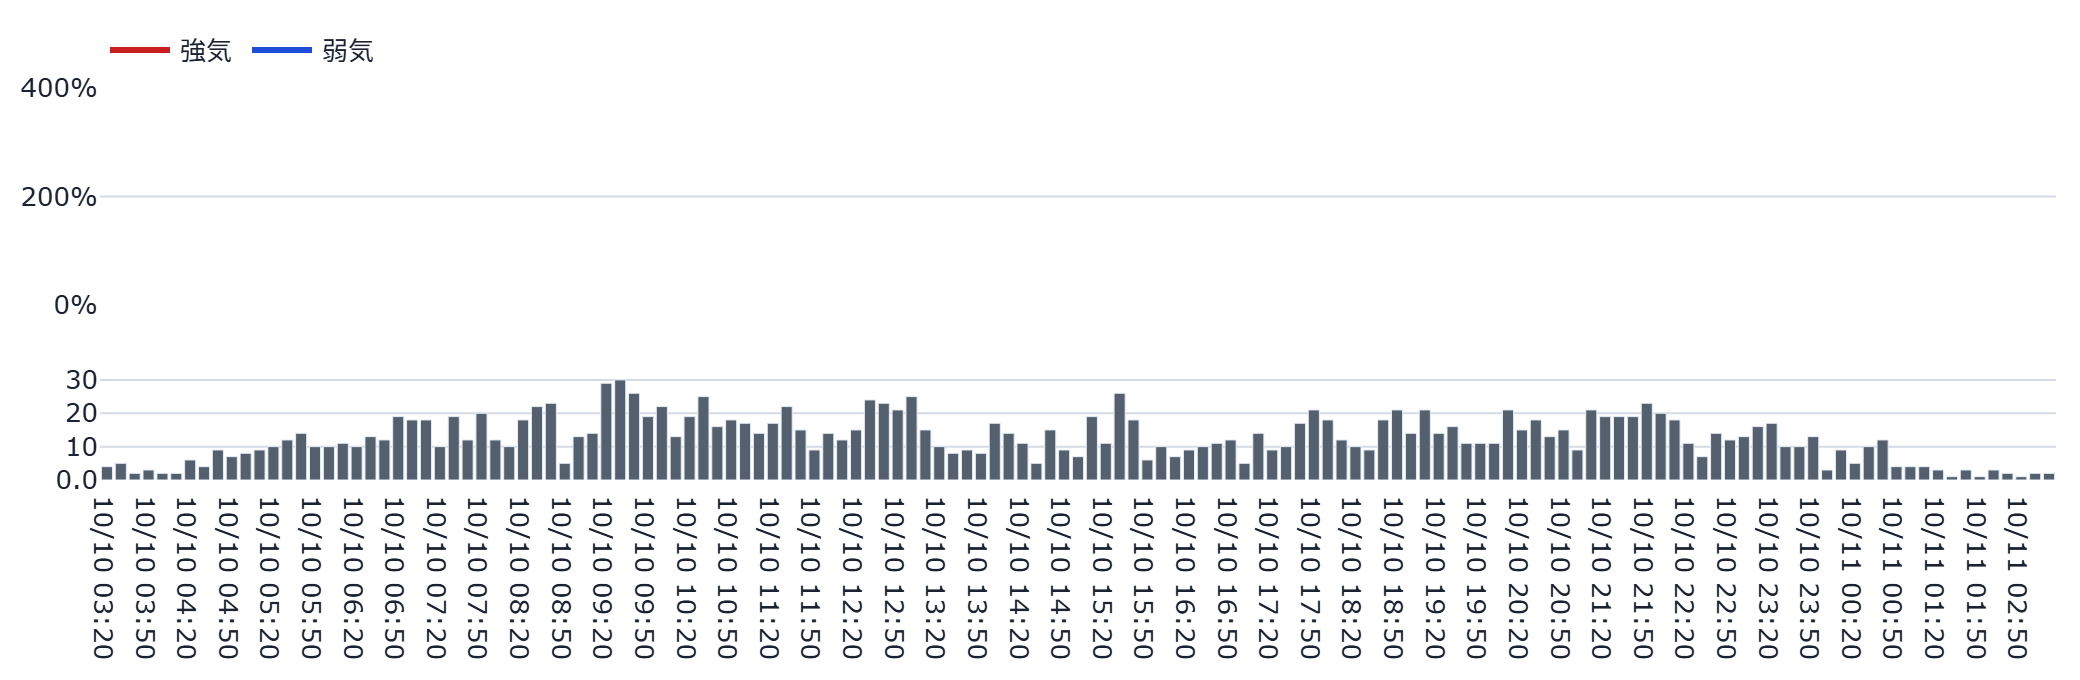
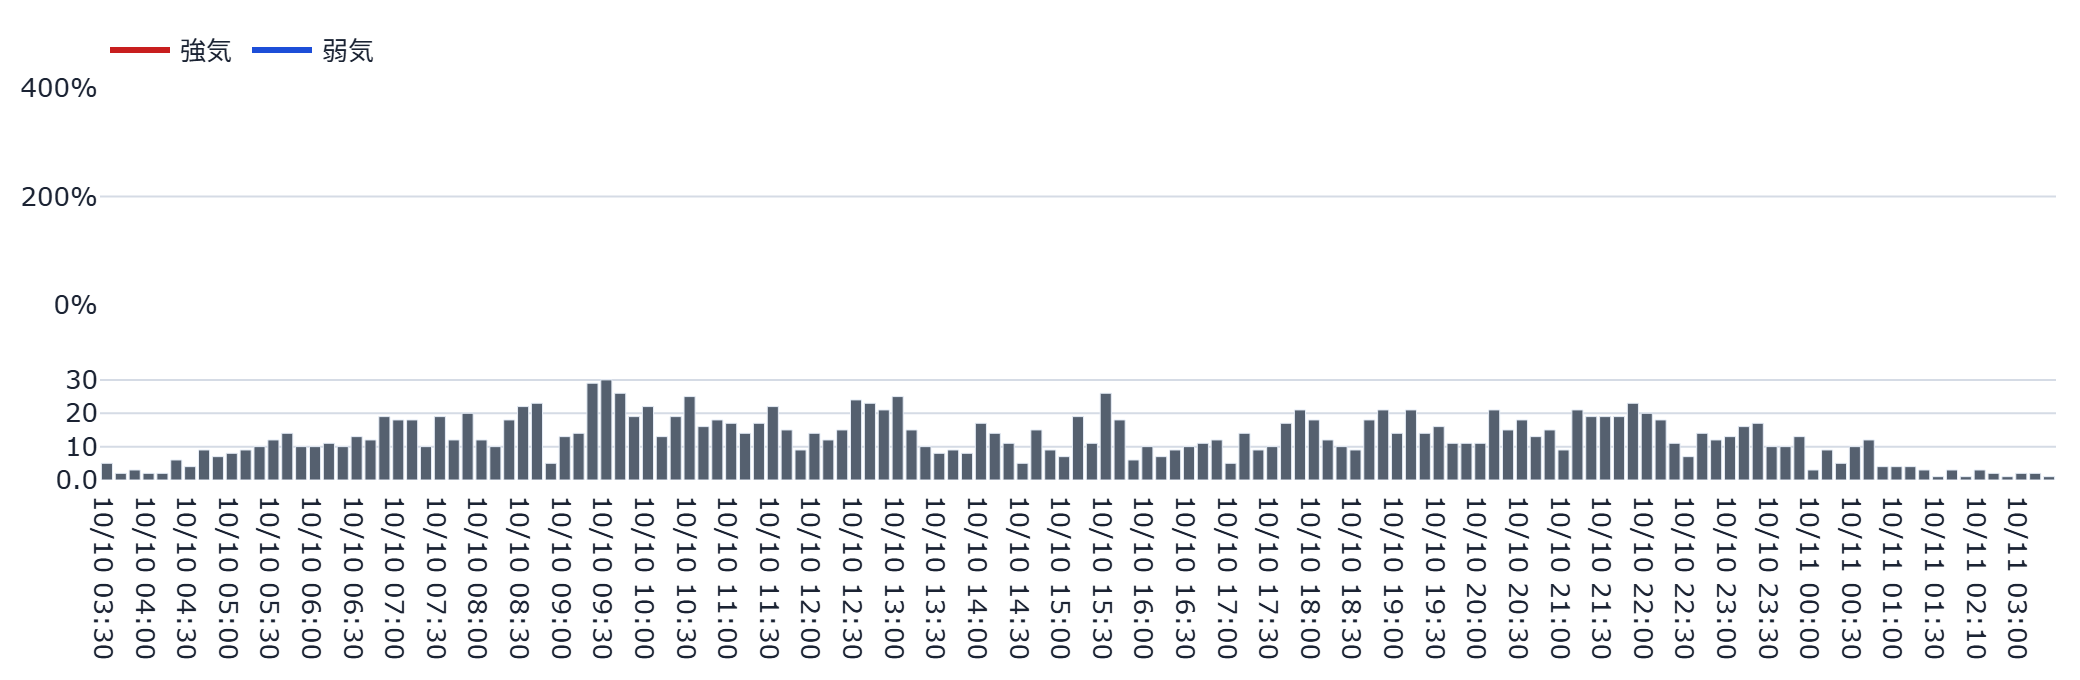
auto: refresh static dashboard (2026-10-11 03:44:18 JST)

diff --git a/docs/index.html b/docs/index.html
@@ -144,7 +144,7 @@
         <span class="price">17,505円</span>
         <span class="chg" style="color:#8B94A3">—</span>
       </div>
-      <p class="caption">更新時刻: 2026-10-11T03:24:20（データは1分間隔で自動生成され、このページも
+      <p class="caption">更新時刻: 2026-10-11T03:34:16（データは1分間隔で自動生成され、このページも
       60秒毎に自動再読み込みされます）</p>
       
       <p id='visit-count-badge' class='caption'>👀 累計閲覧数: 8,884</p>
@@ -154,34 +154,36 @@
            (ai_sector_monitor)のtemplates/index.htmlと同じく、AI考察はタブ非依存で
            常時最上部に表示する。 -->
       <h2>🤖 AI考察</h2>
-      <div class='metric-row'><div class='metric-card'><div class='metric-label'>株価</div><div class='metric-value'>17,505円</div><div class='metric-delta'>+0円</div></div><div class='metric-card'><div class='metric-label'>強気比率</div><div class='metric-value'>—</div><div class='metric-delta'>—</div></div><div class='metric-card'><div class='metric-label'>弱気比率</div><div class='metric-value'>—</div><div class='metric-delta'>—</div></div></div><p class='caption'>前回集計(2026-10-11T03:15:29)との比較</p>
-      <div class='ai-box'>**掲示板の集計センチメントデータに基づく分析であり、投資助言ではありません**<br>
+      <div class='metric-row'><div class='metric-card'><div class='metric-label'>株価</div><div class='metric-value'>17,505円</div><div class='metric-delta'>+0円</div></div><div class='metric-card'><div class='metric-label'>強気比率</div><div class='metric-value'>—</div><div class='metric-delta'>—</div></div><div class='metric-card'><div class='metric-label'>弱気比率</div><div class='metric-value'>—</div><div class='metric-delta'>—</div></div></div><p class='caption'>前回集計(2026-10-11T03:24:20)との比較</p>
+      <div class='ai-box'>**※本分析は、掲示板投稿の集計センチメントデータに基づくものであり、投資助言ではありません。**<br>
 <br>
 ---<br>
 <br>
-### 全体像  <br>
-2026‑10‑09 の取引終値 17,505円（前日比不明）を起点に、休場期間中の掲示板データは「投稿数 69件／時速 ≈ 17.2件」と比較的静かな水準です。投稿速度が平常並みであることから、市場参加者の関与は限定的ですが、**ネームド集中が発火（上位5名で約26％のシェア）**している点は注目すべき偏りです。これは特定ユーザーへの注目度が高まっている可能性を示唆します。<br>
+### 全体的なセンチメントの特徴  <br>
+2026年10月9日の終値 17,505円に対し、本日の投稿数はわずか70件（平均約17.5件／時）と低水準です。投稿速度が緩やかな中で、過熱度スコアは0.0という極めて低い数値となっており、掲示板上の熱狂はほぼ見られません。一方、総悲観度スコアは100.0に達しており、「セリクラ」や「話題枯れ」のシグナルが発火しています。これは、価格が急激に下落した直後に見られる典型的な“底打ち”感覚が広がっていることを示唆します。<br>
 <br>
-### センチメント指標  <br>
-- **過熱度スコア 0.0 / 総悲観度スコア 100.0**：過熱感はほぼ不存在なのに対し、総悲観度が満点という極端なアンバランスが顕在化しています。過去の強気比率（最高56.2％）と直近の弱気比率（35.4％）の乖離は縮小傾向にあり、楽観的期待が薄れつつあることを裏付けます。  <br>
-- **シグナル発火**：*ネームド集中* と *阿鼻叫喚(セリクラ)* が発火している点は、掲示板上で「売り圧力」や「損失認識」の声が増えているサインと捉えられます。一方、*灼熱メーター*・*そう思う大量票*・*イナゴ語彙* は平常範囲（OK）で、熱狂的な買い意欲はまだ顕在化していません。<br>
+### 強気／弱気比率と過熱度の乖離  <br>
+過去数週間のデータを見ると、9月18日～10月2日にかけては強気比率が50％前後で推移し、価格は上昇基調にありました。しかし、10月6日以降は強気比率が急激に低下し、同時に総悲観度が上昇しています。この変化は、掲示板上の楽観的な発言が減少し、代わりに不安材料が目立つようになったことを反映していると考えられます。過熱度が依然として低い点は、価格自体がまだ“過熱”状態ではなく、むしろ割安感が残っている可能性を示しています。<br>
 <br>
-### ボラティリティとレジーム  <br>
-現在のボラティリティ指標 BVP = 0.458 に対し、**較中(calibrating)** のレジームが維持されています。過熱感が低くても総悲観度が高い状況は、ボラティリティが抑制された中で「潜在的な不安材料」が蓄積している可能性を示します。つまり、価格変動は穏やかながら、心理的リスクは残存していると評価できます。<br>
+### ネームド集中と他銘柄混入率の警戒サイン  <br>
+「ネームド集中」が発火し、上位5名が全体の26％を占めていることは、特定の投資家層への依存度が高いことを示します。同時に「他銘柄混入率」が9％に達しており、掲示板参加者が本来のテーマから逸脱した話題を持ち込んでいる様子が伺えます。これらは情報の分散化が進んでいないことを暗示し、価格変動に対する感応度が高まるリスク要因です。<br>
 <br>
-### 前回集計との差分  <br>
-前回（2026‑10‑11 03:15）の投稿数は 67件で、今回 +2 件増加しています。投稿量の増加は、休場期間中に新たな情報流入や話題形成が始まった兆候と考えられますが、価格自体は変化なしです。この「投稿数増＋価格横ばい」というギャップは、掲示板側の関心が高まっている一方で、実際の取引環境（PTS・ADR）では慎重姿勢が続いていることを暗示します。<br>
+### ボラティリティとレジーム帯  <br>
+現在のボラティリティ指標（BVP）は0.458で「較正中」に位置しています。過熱度が低いにも関わらず、ボラティリティが中程度であることは、市場参加者が慎重ながらも潜在的な不確実性を抱えていることを示しています。つまり、価格は落ち着いているものの、突発的なニュースや外部要因に敏感になる余地があります。<br>
 <br>
-### 時間外取引の参考情報  <br>
-夜間の私設取引システム(PTS)は 17,399円（‑0.61％）へ微減、米国ADRは 17,193円（‑1.78％）とさらに下落しています。両市場とも東証終値を下回っており、**「売り圧力が時間外でも継続」**していることが読み取れます。これらは翌営業日の東証取引開始前に価格がやや下押しされる可能性を示す参考材料です。<br>
+### 取引時間外（PTS・米国ADR）の動き  <br>
+夜間取引（PTS）では17,399円（‑0.61％）と僅かな下落が観測され、米国ADRでも17,193円（‑1.78％）となっています。これらは東証終値からの下落圧力を示すものの、規模は限定的です。したがって、翌日の東京市場で大幅な価格変動が起こる可能性は低いと考えられますが、外部要因による追加的な下押しリスクは残ります。<br>
+<br>
+### 米国市場との相関  <br>
+米国株式市場はS&amp;P500・ナスダックともに小幅上昇していますが、フィラデルフィア半導体指数（SOX）は約4.3％の下落です。285Aとの直接的な相関は不明ですが、テクノロジー系銘柄への需要が弱まっている点は、同社製品やサービスに対する期待感の低下と結びつく可能性があります。<br>
 <br>
 ### 値動きの型  <br>
-本日の値動きは **トレンド型**（上昇傾向）に分類され、予測不確実性は「普段並み」。これは過去数日の上昇局面が一定の方向感を保ちつつ、ボラティリティは限定的であることを示しています。したがって、急激な反転リスクは低いものの、センチメントが再び弱気に傾くとトレンドが止まる余地があります。<br>
+本日の「トレンド型」かつ「予測不確実性は普段並み」という分類は、価格が一定方向に伸びつつも変動幅が大きくないことを意味します。これは、掲示板上のセンチメントが比較的安定している一方で、外部要因が価格形成に影響を及ぼす余地が残っている状況と捉えられます。<br>
 <br>
 ---<br>
 <br>
-#### 結論（分析）  <br>
-掲示板の過熱感は乏しい一方で総悲観度が満点という非対称的な心理構造が顕在化しています。ネームド集中やセリクラの発火は「売り圧力」のサインであり、ボラティリティが低い較中レジームと相まって、**価格は横ばいながらも潜在的な下落リスクが潜んでいる**と考えられます。時間外取引の弱含みもそれを裏付けており、今後の東証開場時に若干の下押しが起こり得るシナリオです。ただし、ここで述べたのは掲示板センチメントに基づく現状分析であり、投資判断はご自身の責任で行ってください。</div><p class='caption'>生成時刻: 2026-10-11T03:24:20</p>
+#### 結論（投資判断ではなく情報提供）  <br>
+過熱感はほぼ欠如し、総悲観度が高いことから市場は慎重姿勢を維持しています。ボラティリティは中程度で、ネームド集中や他銘柄混入率の警戒サインが散見されるため、価格変動に対する感度はやや高めです。取引時間外の動向は限定的で、米国市場の全体的な上昇基調と対照的に半導体指数の下落が見られる点は注意が必要です。以上が、本日時点の掲示板センチメントデータに基づく客観的な分析です。</div><p class='caption'>生成時刻: 2026-10-11T03:34:16</p>
 
       <!-- ★2026-09-08追加(ユーザー指示「AIセクターワールドモニターと同様に、
            各表示をグルーピングしてタブで選択できるように」): モニタの
@@ -290,7 +292,7 @@
 
       <hr style="border:none;border-top:1px solid var(--border);margin:2rem 0 1rem">
       <p class="caption">⚠ 本情報は掲示板投稿を統計的に集計したものであり、投資助言ではありません。個別の投稿内容は含まれていません。研究・エンタメ用途です。</p>
-      <footer>生成: generate_static_dashboard.py（2026-10-11T03:34:09） /
+      <footer>生成: generate_static_dashboard.py（2026-10-11T03:44:10） /
       画像バックエンド: plotly+kaleido</footer>
     </div>
     <script>(function(){var url="https://script.google.com/macros/s/AKfycbwgSSGQ2n56ohmIYKlNDA1Xe3D8hd3GJbD0U90L4DGtXdb8pqrPokNMHJWjvN1__7bE/exec";var KEY='bbs_visit_counted';var already=sessionStorage.getItem(KEY);var action=already?'read':'hit';var ctrl=(typeof AbortController!=='undefined')?new AbortController():null;var timer=ctrl?setTimeout(function(){ctrl.abort();},5000):null;fetch(url+'?action='+action,{signal:ctrl?ctrl.signal:undefined}).then(function(r){if(timer)clearTimeout(timer);return r.json();}).then(function(data){if(!already)sessionStorage.setItem(KEY,'1');if(data&&typeof data.count==='number'){var el=document.getElementById('visit-count-badge');if(el){el.textContent='\u{1F440} \u7d2f\u8a08\u95b2\u89a7\u6570: '+data.count.toLocaleString();el.style.display='';}}}).catch(function(e){if(timer)clearTimeout(timer);console.warn('visit counter fetch failed (fail-soft):',e);});})();</script><script>(function(){var url="https://script.google.com/macros/s/AKfycbwgSSGQ2n56ohmIYKlNDA1Xe3D8hd3GJbD0U90L4DGtXdb8pqrPokNMHJWjvN1__7bE/exec";var KEY='bbs_liked';var btn=document.getElementById('like-button');var label=document.getElementById('like-count-label');if(!btn||!label)return;function renderLiked(count){btn.disabled=true;btn.style.cursor='default';btn.style.opacity='0.6';btn.textContent='\u2705';label.textContent="\u3044\u3044\u306d\u3057\u307e\u3057\u305f\uff01"+(typeof count==='number'?"\uff08\u7d2f\u8a08 "+count.toLocaleString()+" \u3044\u3044\u306d\uff09":'');}if(localStorage.getItem(KEY)){renderLiked(null);}btn.addEventListener('click',function(){if(localStorage.getItem(KEY))return;btn.disabled=true;var ctrl=(typeof AbortController!=='undefined')?new AbortController():null;var timer=ctrl?setTimeout(function(){ctrl.abort();},5000):null;fetch(url+'?action=like_hit',{signal:ctrl?ctrl.signal:undefined}).then(function(r){if(timer)clearTimeout(timer);return r.json();}).then(function(data){localStorage.setItem(KEY,'1');renderLiked(data&&typeof data.count==='number'?data.count:null);}).catch(function(e){if(timer)clearTimeout(timer);btn.disabled=false;console.warn('like button fetch failed (fail-soft):',e);});});})();</script><script>(function(){var DEFAULT_TAB='overview';function activate(tabName){var buttons=document.querySelectorAll('.tab-bar .tab-btn');var panels=document.querySelectorAll('[data-tab-panel]');if(!buttons.length||!panels.length)return;var matched=false;panels.forEach(function(p){var on=p.getAttribute('data-tab-panel')===tabName;if(on)matched=true;p.classList.toggle('tab-hidden',!on);});if(!matched){panels.forEach(function(p){p.classList.toggle('tab-hidden',p.getAttribute('data-tab-panel')!==DEFAULT_TAB);});tabName=DEFAULT_TAB;}buttons.forEach(function(b){var on=b.getAttribute('data-tab')===tabName;b.classList.toggle('active',on);b.setAttribute('aria-selected',on?'true':'false');});}document.addEventListener('DOMContentLoaded',function(){var bar=document.getElementById('tabBar');if(!bar)return;bar.addEventListener('click',function(e){var btn=e.target.closest('.tab-btn');if(!btn)return;activate(btn.getAttribute('data-tab'));});activate(DEFAULT_TAB);});})();</script></body></html>
